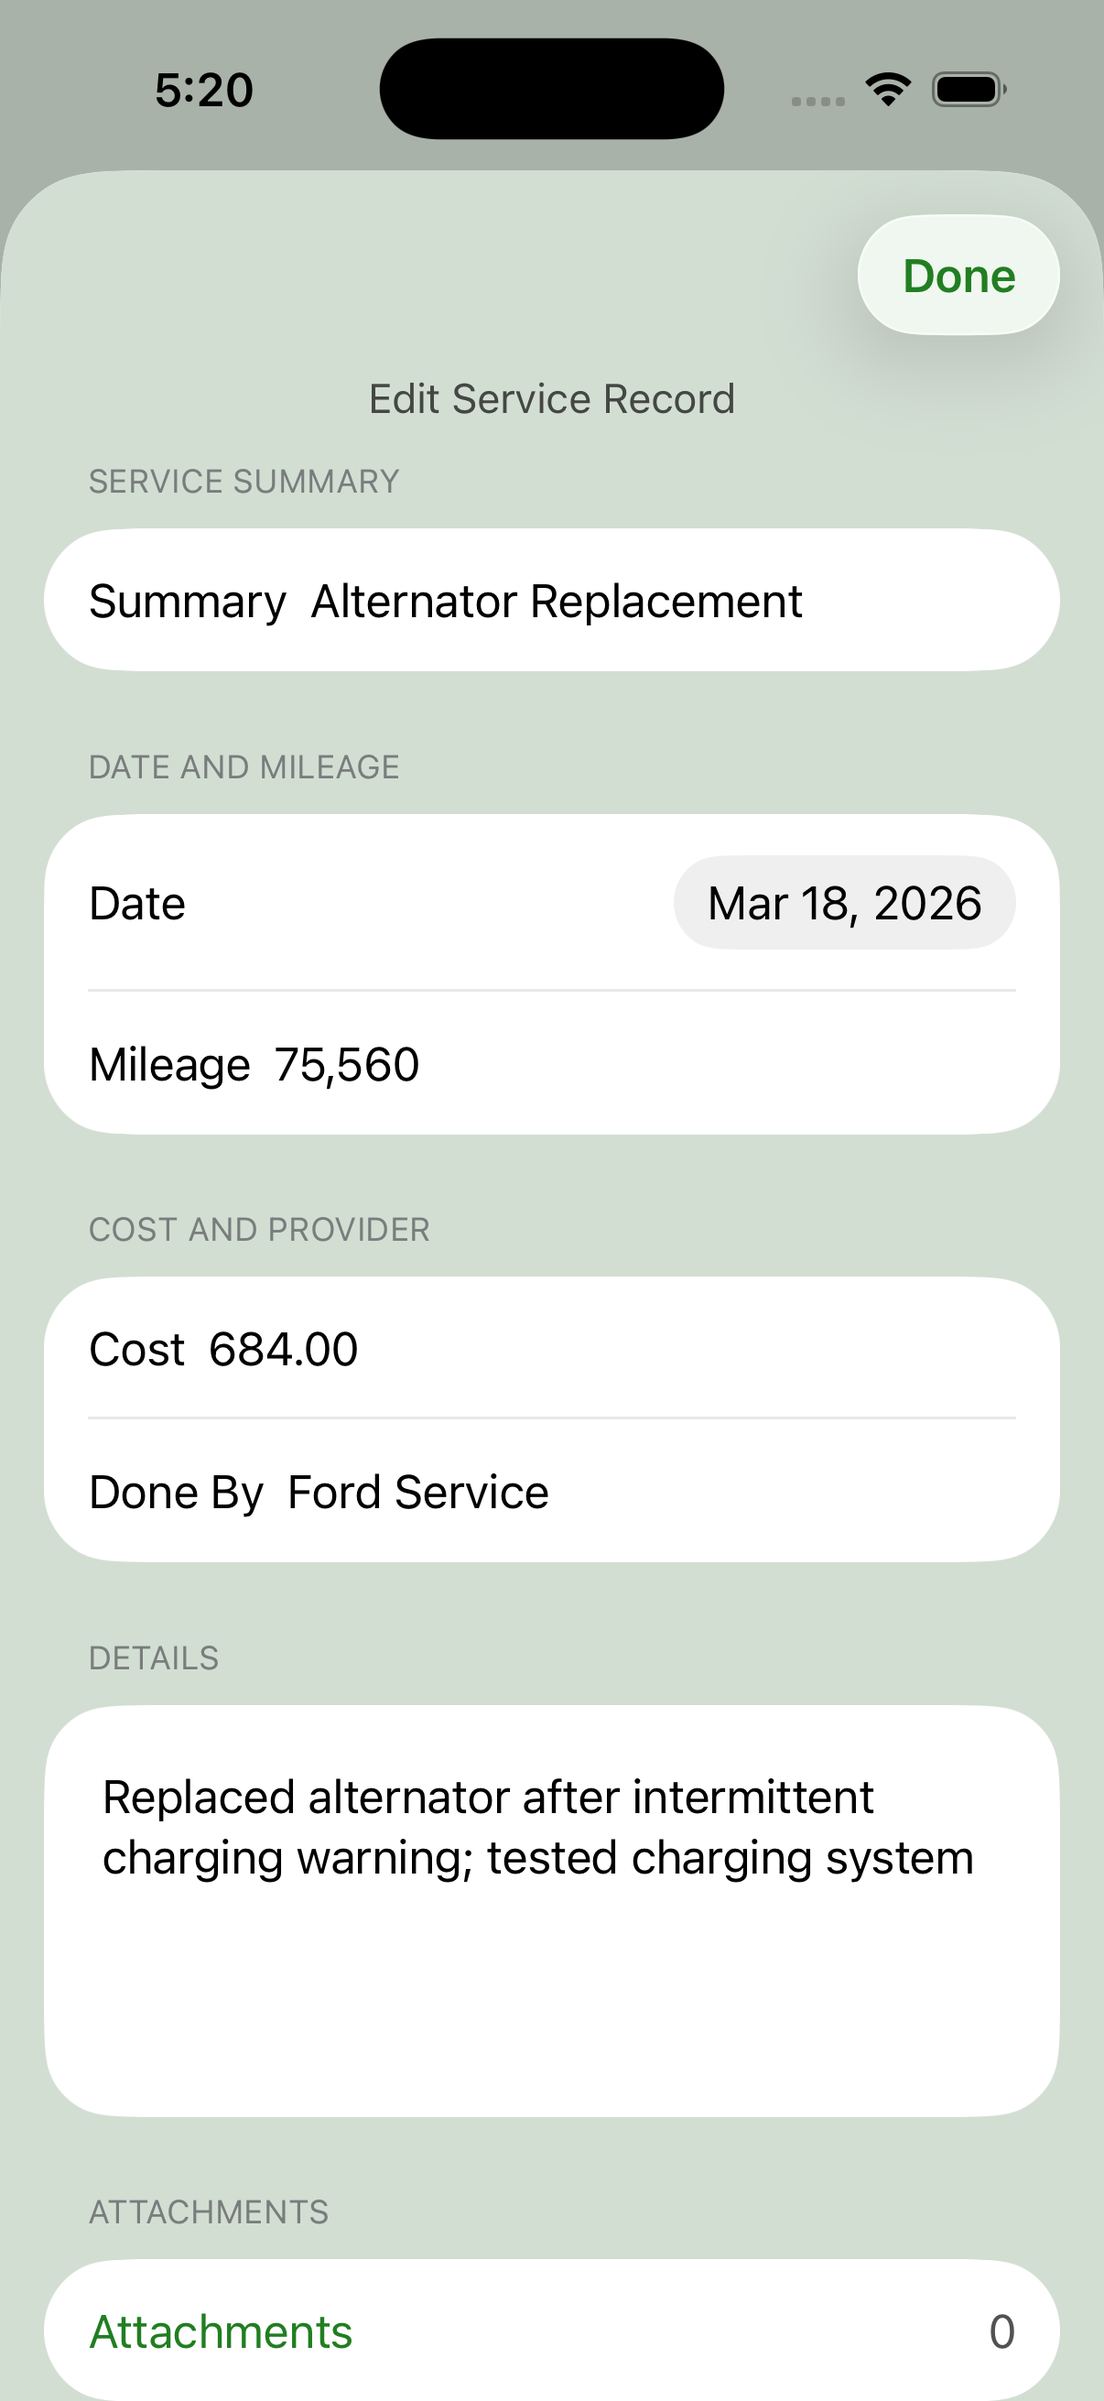
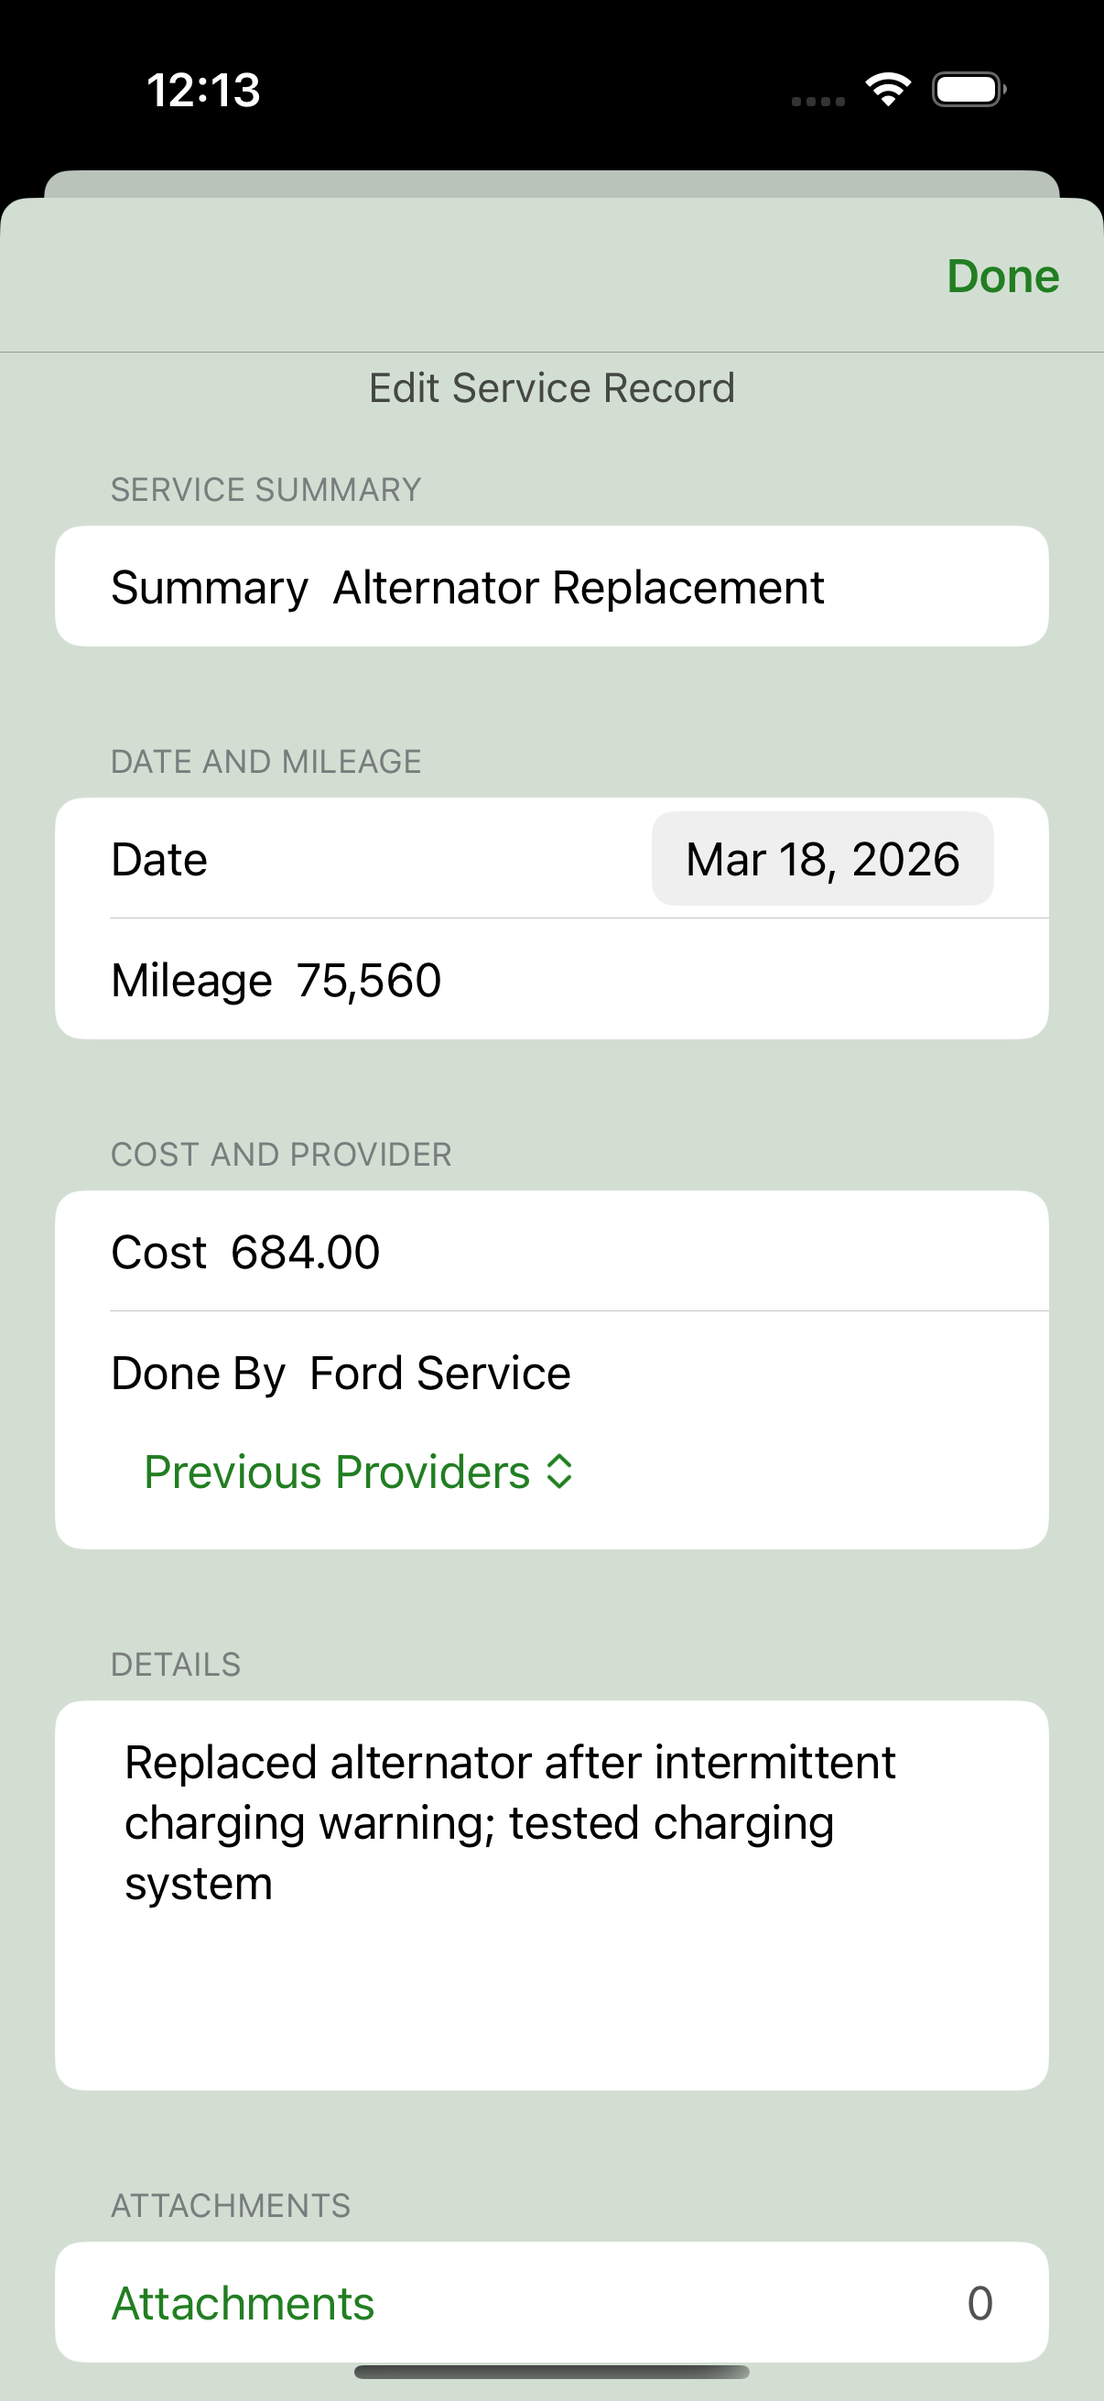
Updated for iPhone Duo and the new previous providers picker

diff --git a/docs-ios.html b/docs-ios.html
@@ -24,7 +24,9 @@ Paste this at the top of any <body> block
 </header>
 
     <main>
-        <p>This documentation provides a complete guide to using Vehicle Service Tracker on iPhone. It covers creating and managing vehicles, recording service history, attaching receipts and documents, and using search and reporting tools to organize and review your data.</p>
+        <p>This documentation provides a complete guide to using Vehicle Service Tracker on iPhone. It covers creating and managing vehicles, recording service history, attaching receipts and documents, and using search and reporting tools to organize and review your data.
+       		<br><em>Documentation for version: 1.3.2</em> 
+        </p>
         <p>Refer to the following annotated screen shots for an overview of major features.</p>
 
             <a href="images/ios_vehicle_list_annotated.png" target="_blank">
@@ -43,6 +45,7 @@ Paste this at the top of any <body> block
 
         <h2>Documentation Index</h2>
         <ul>
+        	<li><a href="#iphone-duo">iPhone Duo Support</a></li>
             <li><a href="#getting-started">Getting Started</a></li>
             <li><a href="#adding-vehicles">Adding and Managing Vehicles</a></li>
             <li><a href="#service-records">Adding and Managing Service Records</a></li>
@@ -58,6 +61,47 @@ Paste this at the top of any <body> block
         </ul>
 
         <hr>
+
+        <!-- BEGIN IPHONE DUO SUPPORT -->
+        <h2 id="iphone-duo">iPhone Duo Support</h2>
+
+        <p>
+            Vehicle Service Tracker supports Apple's iPhone Duo,
+            automatically adapting its interface to the device's
+            folded or unfolded configuration.
+        </p>
+
+        <p>
+            When unfolded, the app takes advantage of the additional
+            screen space by displaying the vehicle list and service
+            records simultaneously. This makes it easy to select
+            vehicles and review their maintenance history without
+            navigating between separate screens.
+        </p>
+
+        <p>
+            When folded, Vehicle Service Tracker uses its standard
+            iPhone interface. The app also adapts to changes in
+            device orientation.
+        </p>
+
+        <a href="images/iPhone_Duo_Composite.png" target="_blank">
+            <img src="images/iPhone_Duo_Composite.png"
+                 alt="Vehicle Service Tracker on iPhone Duo in folded and unfolded configurations"
+                 class="doc-image">
+        </a>
+        <p class="caption">
+            Vehicle Service Tracker on iPhone Duo in different configurations
+        </p>
+
+        <p>
+            All application features remain available in both configurations.
+            The instructions in this guide apply to iPhone Duo as well as
+            conventional iPhone models.
+        </p>
+
+        <hr>
+        <!-- END IPHONE DUO SUPPORT -->
 
     <!-- BEGIN GETTING STARTED -->
         <h3 id="getting-started">Getting Started</h3>
@@ -111,13 +155,13 @@ Paste this at the top of any <body> block
 
 			<p>To update an existing vehicle, do one of the following:</p>
 			<ul>
-				<li>Tap <strong>Edit</strong> at the top of the screen, then tap the <strong>Edit</strong> button beside the desired vehicle. The <strong>Vehicle Edit</strong> screen opens, where you can make your changes. When you're finished, tap <strong>Done</strong>. Changes are saved automatically.</li>
+				<li>Tap the <strong>pencil (Edit)</strong> icon at the top of the screen, then tap the <strong>Edit</strong> button beside the desired vehicle. The <strong>Vehicle Edit</strong> screen opens, where you can make your changes. When you're finished, tap <strong>Done</strong>. Changes are saved automatically.</li>
 				<li>Swipe left on the vehicle row and tap <strong>Edit</strong>. The <strong>Vehicle Edit</strong> screen opens, where you can make your changes. Changes are saved automatically.</li>
 			</ul>
 			
 			<p><strong>Tip:</strong> To quickly update a vehicle's current mileage value to match the mileage from its most recent service item, tap the update mileage icon (↻) on the Vehicle Edit screen.</p>
 
-            <p>To delete a vehicle, either tap <strong>Edit</strong> at the top of the screen, then tap the red <strong>Delete</strong> button beside the desired vehicle, or swipe left on the vehicle row and tap <strong>Delete</strong>.</p>
+            <p>To delete a vehicle, either tap the <strong>pencil (Edit)</strong> icon at the top of the screen, then tap the red <strong>Delete</strong> button beside the desired vehicle, or swipe left on the vehicle row and tap <strong>Delete</strong>.</p>
             <p><strong>Important:</strong> Deleting a vehicle also removes all associated service records, so review your records carefully before deleting a vehicle.</p>
 
             <a href="images/ios_vehicle_edit_button.png" target="_blank">
@@ -162,13 +206,13 @@ Paste this at the top of any <body> block
             <p><strong>Note:</strong> When adding a new service item, search results are turned off automatically and the toggle switches to <strong>Showing All Records</strong>. This prevents newly created service items from being immediately hidden if they don’t match the current search filters.</p>
             <p>To update an existing service item, do one of the following:</p>
 			<ul>
-    			<li>Tap <strong>Edit</strong> at the top of the screen, then tap the <strong>Edit</strong> button beside the desired service item. The <strong>Service Item Edit</strong> screen opens, where you can make your changes. When you're finished, tap <strong>Done</strong>. Changes are saved automatically.</li>
+    			<li>Tap the <strong>pencil (Edit)</strong> icon at the top of the screen, then tap the <strong>Edit</strong> button beside the desired service item. The <strong>Service Item Edit</strong> screen opens, where you can make your changes. When you're finished, tap <strong>Done</strong>. Changes are saved automatically.</li>
     			<li>Swipe left on the service item row and tap <strong>Edit</strong>. The <strong>Service Item Edit</strong> screen opens, where you can make your changes. Changes are saved automatically.</li>
 			</ul>
 
 		<p>To delete a service item:</p>
 			<ul>
-			<li>Tap <strong>Edit</strong> at the top of the screen, then tap the <strong>Delete</strong> button beside the desired service item.</li>
+			<li>Tap the <strong>pencil (Edit)</strong> icon at the top of the screen, then tap the <strong>Delete</strong> button beside the desired service item.</li>
 			
 			<li>Swipe left on the service item row and tap <strong>Delete</strong>.</li>
 			</ul>
@@ -415,6 +459,11 @@ Paste this at the top of any <body> block
 		<h4>How can I see how much I've spent on maintenance?</h4>
     		<p>Use the <strong>Statistics</strong> feature to review service costs for an individual vehicle over time. You can choose a time period, group costs by month, quarter, or year, and view the results in an interactive chart. Statistics also show total service cost, number of service records, and average cost per service for the selected period. You can also use <strong>Reports</strong> together with search and filtering tools when you want to review costs for a specific subset of service records.</p>
     	<hr>
+    	
+    	<h4>How do I reuse a previously entered service provider?</h4>
+    		<p>When adding or editing a service record, you can enter a service provider name manually or use the <strong>Previous Providers</strong> picker to select a provider used in an existing service record. Selecting a provider automatically fills in the Service Provider field.</p>
+    		<p>The list of previous providers is generated automatically from your existing service records, so there's no separate provider list to maintain. Reusing provider names also helps keep your records consistent when searching by provider.</p>
+<hr>
 
         <h4>How is my data saved?</h4>
             <p>Vehicle Service Tracker saves changes automatically as you work. Adding or editing vehicles, service records, attachments, and other application data does not require a separate Save button.</p>
@@ -429,12 +478,15 @@ Paste this at the top of any <body> block
         <hr>
 
 		<h4>Does Vehicle Service Tracker support iCloud sync?</h4>	
-			<p>Vehicle Service Tracker supports iCloud synchronization between Macs signed into the same Apple ID. When iCloud is enabled for the app, vehicles, service records, attachments, and related data automatically synchronize in the background.</p>
+			<p>Vehicle Service Tracker supports iCloud synchronization between Macs, iPhones, and iPads signed into the same Apple Account. When iCloud is enabled for the app, vehicles, service records, attachments, and related data automatically synchronize in the background.</p>
 		<hr>
-
-
-
-<!-- Add the iPhone App Store badge and link after the iPhone listing is final. -->
+		
+		
+	<center>
+		<a href="downloads.html" style="display: inline-block;">
+		<img src="https://toolbox.marketingtools.apple.com/api/v2/badges/download-on-the-app-store/black/en-us?releaseDate=1753660800" alt="Download on the App Store" style="width: 245px; height: 82px; vertical-align: middle; object-fit: contain;" />
+		</a>
+    </center>
 
     </main>
 <!--

diff --git a/docs-ipad.html b/docs-ipad.html
@@ -24,7 +24,9 @@ Paste this at the top of any <body> block
 </header>
 
     <main>
-        <p>This documentation provides a complete guide to using Vehicle Service Tracker on iPad. It covers creating and managing vehicles, recording service history, attaching receipts and documents, and using search and reporting tools to organize and review your data.</p>
+        <p>This documentation provides a complete guide to using Vehicle Service Tracker on iPad. It covers creating and managing vehicles, recording service history, attaching receipts and documents, and using search and reporting tools to organize and review your data.
+        	<br><em>Documentation for version: 1.3.2</em>
+        </p>
         <p>Refer to the following annotated screen shots for an overview of major features.</p>
 
             <a href="images/ipad_main_screen_annotated.png" target="_blank">
@@ -113,7 +115,7 @@ Paste this at the top of any <body> block
 
 			<p>To delete a vehicle, do one of the following:</p>
 			<ul>
-			<li>Tap the <strong>trash can (Delete)</strong> button on the service item menu bar and confirm the deletion.</li>
+			<li>Tap the <strong>trash can (Delete)</strong> button on the vehicle menu bar and confirm the deletion.</li>
 			
 			<li>Swipe left on the vehicle row and tap <strong>Delete</strong>.</li>
 			</ul>
@@ -380,6 +382,11 @@ Paste this at the top of any <body> block
 		<h4>How can I see how much I've spent on maintenance?</h4>
     		<p>Use the <strong>Statistics</strong> feature to review service costs for an individual vehicle over time. You can choose a time period, group costs by month, quarter, or year, and view the results in an interactive chart. Statistics also show total service cost, number of service records, and average cost per service for the selected period. You can also use <strong>Reports</strong> together with search and filtering tools when you want to review costs for a specific subset of service records.</p>
     	<hr>
+    	
+    	<h4>How do I reuse a previously entered service provider?</h4>
+    		<p>When adding or editing a service record, you can enter a service provider name manually or use the <strong>Previous Providers</strong> picker to select a provider used in an existing service record. Selecting a provider automatically fills in the Service Provider field.</p>
+    		<p>The list of previous providers is generated automatically from your existing service records, so there's no separate provider list to maintain. Reusing provider names also helps keep your records consistent when searching by provider.</p>
+		<hr>
 
         <h4>How is my data saved?</h4>
             <p>Vehicle Service Tracker saves changes automatically as you work. Adding or editing vehicles, service records, attachments, and other application data does not require a separate Save button.</p>
@@ -394,12 +401,14 @@ Paste this at the top of any <body> block
         <hr>
 
 		<h4>Does Vehicle Service Tracker support iCloud sync?</h4>	
-			<p>Vehicle Service Tracker supports iCloud synchronization between Macs signed into the same Apple ID. When iCloud is enabled for the app, vehicles, service records, attachments, and related data automatically synchronize in the background.</p>
-		<hr>
+			<p>Vehicle Service Tracker supports iCloud synchronization between Macs, iPhones, and iPads signed into the same Apple Account. When iCloud is enabled for the app, vehicles, service records, attachments, and related data automatically synchronize in the background.</p>
 
 
-
-<!-- Add the iPad App Store badge and link after the iPad listing is final. -->
+	<center>
+		<a href="downloads.html" style="display: inline-block;">
+		<img src="https://toolbox.marketingtools.apple.com/api/v2/badges/download-on-the-app-store/black/en-us?releaseDate=1753660800" alt="Download on the App Store" style="width: 245px; height: 82px; vertical-align: middle; object-fit: contain;" />
+		</a>
+    </center>
 
     </main>
 <!--

diff --git a/docs.html b/docs.html
@@ -24,8 +24,10 @@ Paste this at the top of any <body> block
 </header>
 
     <main>
-        <p>This documentation provides a complete guide to using Vehicle Service Tracker. It covers creating and managing vehicles, recording service history, attaching receipts and documents, and using search and reporting tools to organize and review your data.</p>
-		<p>Refer to the following annotated screen shot for an overview of major features</p>
+        <p>This documentation provides a complete guide to using Vehicle Service Tracker. It covers creating and managing vehicles, recording service history, attaching receipts and documents, and using search and reporting tools to organize and review your data.
+        	<br><em>Documentation for version: 1.3.2</em>
+        </p>
+		<p>Refer to the following annotated screenshot for an overview of major features.</p>
 		<a href="images/annotated-master-view.jpg" target="_blank">
 		<img src="images/annotated-master-view.jpg"
 			   alt="Vehicle Service Tracker main screen with annotated sections"
@@ -507,6 +509,12 @@ Paste this at the top of any <body> block
 <!-- END Menu locations -->	
 
 	<h3 id="faq">FAQ and Troubleshooting</h3>
+	
+	<!-- Previous Service Providers -->
+	    <h4>How do I reuse a previously entered service provider?</h4>
+    		<p>When adding or editing a service record, you can enter a service provider name manually or use the <strong>Previous Providers</strong> picker to select a provider used in an existing service record. Selecting a provider automatically fills in the Service Provider field.</p>
+    		<p>The list of previous providers is generated automatically from your existing service records, so there's no separate provider list to maintain. Reusing provider names also helps keep your records consistent when searching by provider.</p>
+		<hr>
 
 	<!-- BACKUP -->
 	<h4>How do I back up my Vehicle Service Tracker data?</h4>
@@ -525,12 +533,12 @@ Paste this at the top of any <body> block
 	<hr>
 
 	<h4>How do I move my data to another Mac?</h4>
-		<p>Vehicle Service Tracker supports iCloud synchronization between Macs signed into the same Apple ID. When iCloud is enabled for the app, your vehicles, service records, attachments, and related data can automatically appear on another Mac running Vehicle Service Tracker.</p>	
+		<p>Vehicle Service Tracker supports iCloud synchronization between Macs, iPhones, and iPads signed into the same Apple Account. When iCloud is enabled for the app, your vehicles, service records, attachments, and related data can automatically appear on another Mac running Vehicle Service Tracker.</p>
 		<p>You can also move data manually using the <strong>Import/Export Data</strong> tools. Create an exported copy of your vehicles, service records, and attachments, then copy the exported folder to the new Mac using an external drive, cloud storage service, AirDrop, or another transfer method. On the new Mac, use <strong>Import/Export Data</strong> to import that exported folder into Vehicle Service Tracker.</p>
 	<hr>
-	
-	<h4>Does Vehicle Service Tracker support iCloud sync?</h4>	
-		<p>Vehicle Service Tracker supports iCloud synchronization between Macs signed into the same Apple ID. When iCloud is enabled for the app, vehicles, service records, attachments, and related data automatically synchronize in the background.</p>
+
+	<h4>Does Vehicle Service Tracker support iCloud sync?</h4>
+		<p>Vehicle Service Tracker supports iCloud synchronization between Macs, iPhones, and iPads signed into the same Apple Account. When iCloud is enabled for the app, vehicles, service records, attachments, and related data automatically synchronize in the background.</p>
 	<hr>
 	
 <h4>Why did Search Results turn off when I added a new record?</h4>

diff --git a/index.html b/index.html
@@ -41,6 +41,35 @@ Paste this at the top of any <body> block
 
     <hr>
 
+    <h3>New: iPhone Duo Support</h3>
+
+    <p>
+        Vehicle Service Tracker now supports Apple's new iPhone Duo,
+        with an interface designed to take advantage of its dual-screen display.
+    </p>
+
+    <p>
+        When the device is unfolded, Vehicle Service Tracker displays
+        your vehicle list on one screen and the selected vehicle's
+        service records on the other, making it easy to browse and
+        manage your maintenance history.
+    </p>
+
+    <p>
+        When folded, the app automatically switches to its standard
+        iPhone interface.
+    </p>
+   
+   <p> 
+   <a href="images/iPhone_Duo_Composite.png" target="_blank">
+	<img src="images/iPhone_Duo_Composite.png"
+			alt="iPhone Duo Composite Image"
+			class="doc-image">
+	</a>
+   </p>
+	
+	
+
     <center>
         <a href="downloads.html" style="display: inline-block;">
         <img src="https://toolbox.marketingtools.apple.com/api/v2/badges/download-on-the-app-store/black/en-us?releaseDate=1753660800" alt="Download on the App Store" style="width: 245px; height: 82px; vertical-align: middle; object-fit: contain;" />
